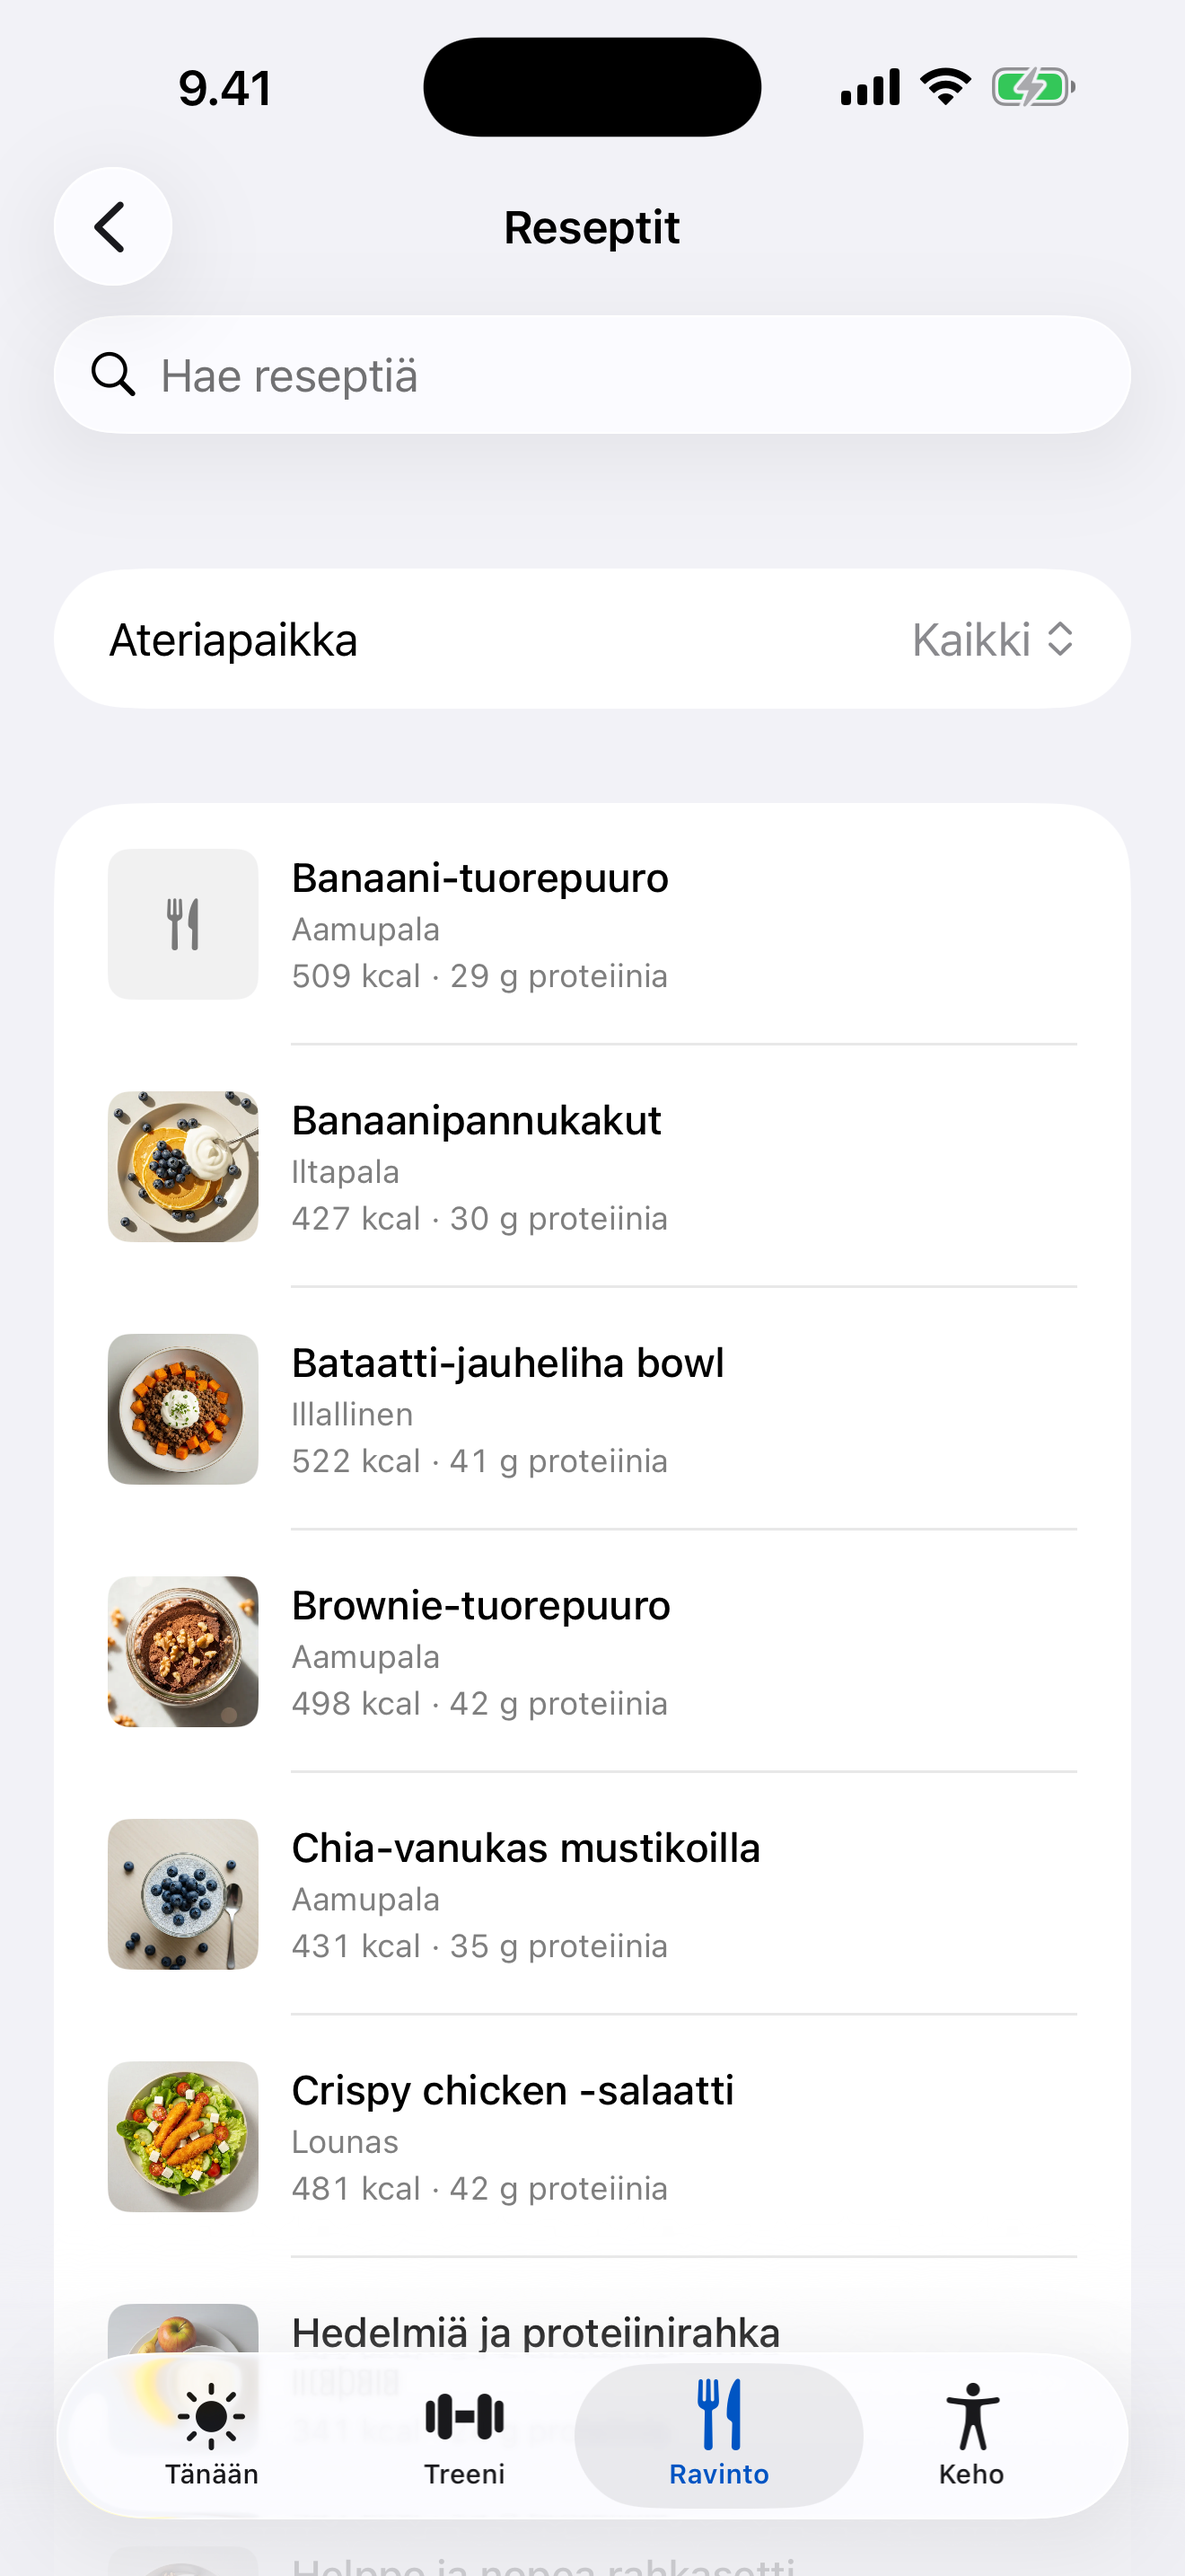
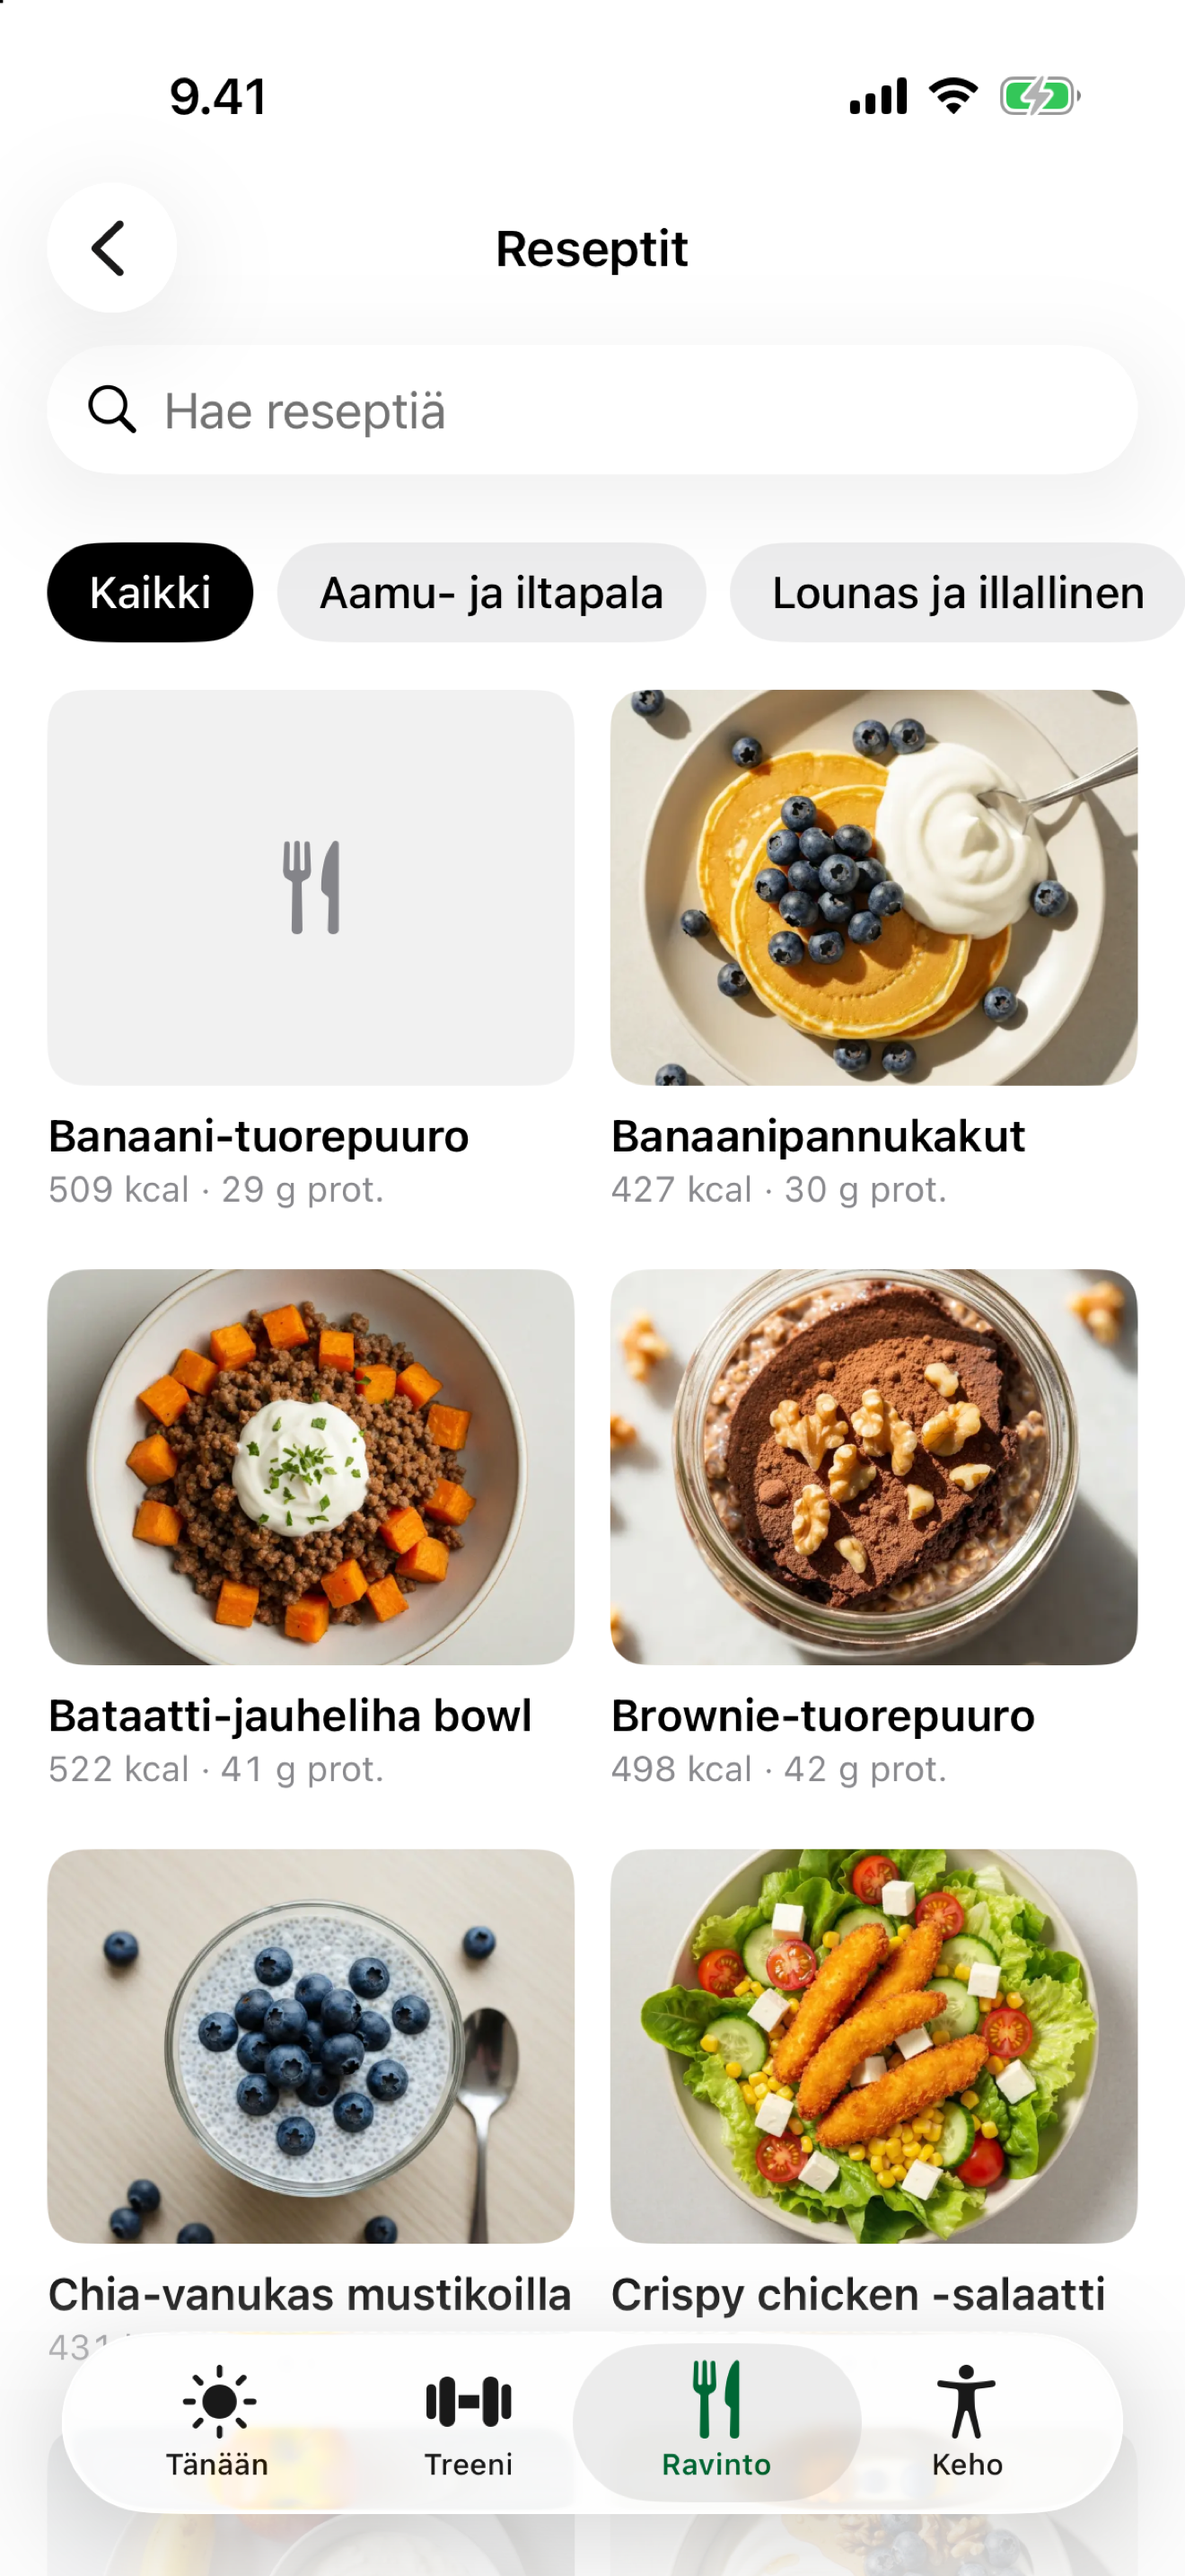
App Store -kuvat demotunnukselta 1.0.8:n ulkoasusta (7 kpl)

diff --git a/Distribution/README.md b/Distribution/README.md
@@ -29,57 +29,52 @@ avainsanoissa, koska nimi indeksoidaan muutenkin.
 
 ## Kuvat (`screenshots/fi-FI/iphone-6.9/`)
 
-Sama kahdeksan kuvan sarja kahtena kokona. Sovellus on iPhone-only
+Sama seitsemän kuvan sarja kahtena kokona. Sovellus on iPhone-only
 (`TARGETED_DEVICE_FAMILY: "1"`), joten iPad- tai Watch-kuvia ei tarvita.
 
-- `iphone-6.9/` — 1320 × 2868 px, simulaattorista otetut alkuperäiset
-  (iPhone 17 Pro Max, @3x).
-- `iphone-6.5/` — 1284 × 2778 px, skaalattu alkuperäisistä.
+- `iphone-6.9/` — 1320 × 2868 px
+- `iphone-6.5/` — 1284 × 2778 px
 
 **Kumpi kelpaa, riippuu siitä minkä paikan App Store Connect näyttää.**
 Lomakkeen iPhone-välilehti tarjosi 19.8.2026 vain 6.5" -paikkaa
 (1242 × 2688, 2688 × 1242, 1284 × 2778 tai 2778 × 1284) ja hylkäsi 6.9"
 kuvat väärän kokoisina — käytä silloin `iphone-6.5/`-sarjaa. 6.9"
-alkuperäiset voi ladata **View All Sizes in Media Manager** -näkymästä.
+kuvat voi ladata **View All Sizes in Media Manager** -näkymästä.
 
-Skaalaus venyttää kuvaa pystysuunnassa 0,4 % (kuvasuhde 0,4603 → 0,4622).
-Ero on silmällä näkymätön, mutta jos kuvat otetaan joskus uudelleen, ota ne
-suoraan 6.5" simulaattorilla (iPhone 11 Pro Max) niin venytystä ei tule.
+Nykyiset kuvat (5.11.2026, versio 1.0.8) on otettu iPhone 17 Pro
+-simulaattorista (1206 × 2622) ja skaalattu molempiin kokoihin
+(`sips -z 2868 1320` ja `sips -z 2778 1284`). Skaalaus venyttää 6.5"
+kuvaa pystysuunnassa ~0,5 %, mikä ei näy silmällä. Tarkempi tulos syntyy,
+kun kuvat otetaan suoraan iPhone 17 Pro Max -simulaattorilla (6.9").
 
-Uusinta samalle koolle:
+Järjestys App Store Connectiin (kolme ensimmäistä näkyy hakutuloksissa,
+joten vahvin tarina ensin) = tiedostonimen numero:
 
-```bash
-for f in iphone-6.9/*.png; do sips -z 2778 1284 "$f" --out "iphone-6.5/$(basename $f)"; done
-```
-
-Suositeltu järjestys App Store Connectiin (kolme ensimmäistä näkyy
-hakutuloksissa, joten vahvin tarina ensin):
-
-1. `02-treeni.png` — sarjan kirjaus: viime kerran arvot, esitäytetyt
+1. `01-treeni.png` — sarjan kirjaus: viime kerran arvot, esitäytetyt
    toistot ja kuormat sekä lepoajastin
-2. `03-ravinto.png` — päivän energia ja makrot
-3. `08-ai-arvio.png` — tekoälyn tekemä ateria-arvio (Pron kärki)
-4. `01-tanaan.png` — päivän yhteenveto, askeleet ja yöuni
-5. `06-kehitys.png` — kehitys liikkeittäin
-6. `05-keho.png` — paino ja mitat
-7. `04-reseptit.png` — reseptikirjasto
-8. `07-resepti.png` — reseptin makrot ja annoskoko
+2. `02-ravinto.png` — päivän energia ja makrot
+3. `03-ai-arvio.png` — tekoälyn tekemä ateria-arvio (Pron kärki)
+4. `04-reseptit.png` — reseptikirjasto kahdessa sarakkeessa
+5. `05-resepti.png` — reseptin makrot ja annoskoko
+6. `06-kehitys.png` — kehitys liikkeittäin
+7. `07-keho.png` — paino ja mitat
 
-Kuvat on otettu simulaattorista kirjautuneena, ja niissä näkyy oikeaa dataa
-omalta tililtä. Kaksi asiaa on siksi hoidettu erikseen:
+Kuvat on otettu **demotunnuksella** (sama kuin arviointiohjeessa, Pro
+päällä), jotta kauppasivulle ei päädy oikean käyttäjän nimeä tai dataa:
 
-- **Nimi on demonimi.** Tänään-näkymä näyttää `profiles.full_name`-kentän, jota
-  sovelluksessa ei voi muokata. Nimi vaihdettiin kannassa kuvan ajaksi
-  ("Mikko Laine") ja palautettiin heti perään. Jos kuva otetaan uudelleen,
-  tee sama — muuten kauppasivulle päätyy oikea nimi.
-- **Treenikuvan treeni on aloitettu kuvaa varten ja poistettu heti perään.**
-  "Viimeksi"-sarake täyttyy vasta kun treeni on aloitettu ohjelmasta, joten
-  valmiiksi kirjatusta treenistä ei saa kuvaa jossa vertailuarvot näkyvät.
-- **Apple Health -kortti näyttää dataa.** Simulaattorin Health-sovellukseen
-  syötettiin käsin askeleet (8 432) ja yksi yö unta (7 h 1 min). Ilman niitä
-  kortissa lukee "Apple Healthista ei saatu tietoja", mikä lukee kuvassa
-  virheeltä. Data on simulaattorikohtaista: uusi simulaattori tarkoittaa
-  uutta syöttöä (Health → Selaa → Aktiivisuus/Uni → +).
+- **Treenikuvan treeni aloitettiin kuvaa varten ja poistettiin heti
+  perään.** "Viimeksi"-sarake täyttyy vasta kun treeni on aloitettu
+  ohjelmasta.
+- **Ravintopäivälle kirjattiin kolme reseptiä**, ja AI-arvio peruttiin
+  tallentamatta.
+- **Tänään-näkymä puuttuu sarjasta**, koska simulaattorin Apple Health
+  -kortissa lukee "Apple Healthista ei saatu tietoja", mikä näyttää kuvassa
+  virheeltä. Jos se halutaan mukaan: anna Volulle Health-lukuoikeus ja syötä
+  simulaattorin Health-sovellukseen askeleet ja yksi yö unta käsin.
+- Google Playn pre-launch-testi kirjautuu samalla demotunnuksella ja
+  painelee sovellusta (aloittaa treenejä, kuittaa sarjoja, poistaa
+  kirjauksia). Jos demodata muuttuu kesken kuvauksen, syy on todennäköisesti
+  se.
 
 Uusinta: aseta ensin tilapalkki vakioksi, muuten kellonaika ja akku vaihtelevat
 kuvien välillä.
